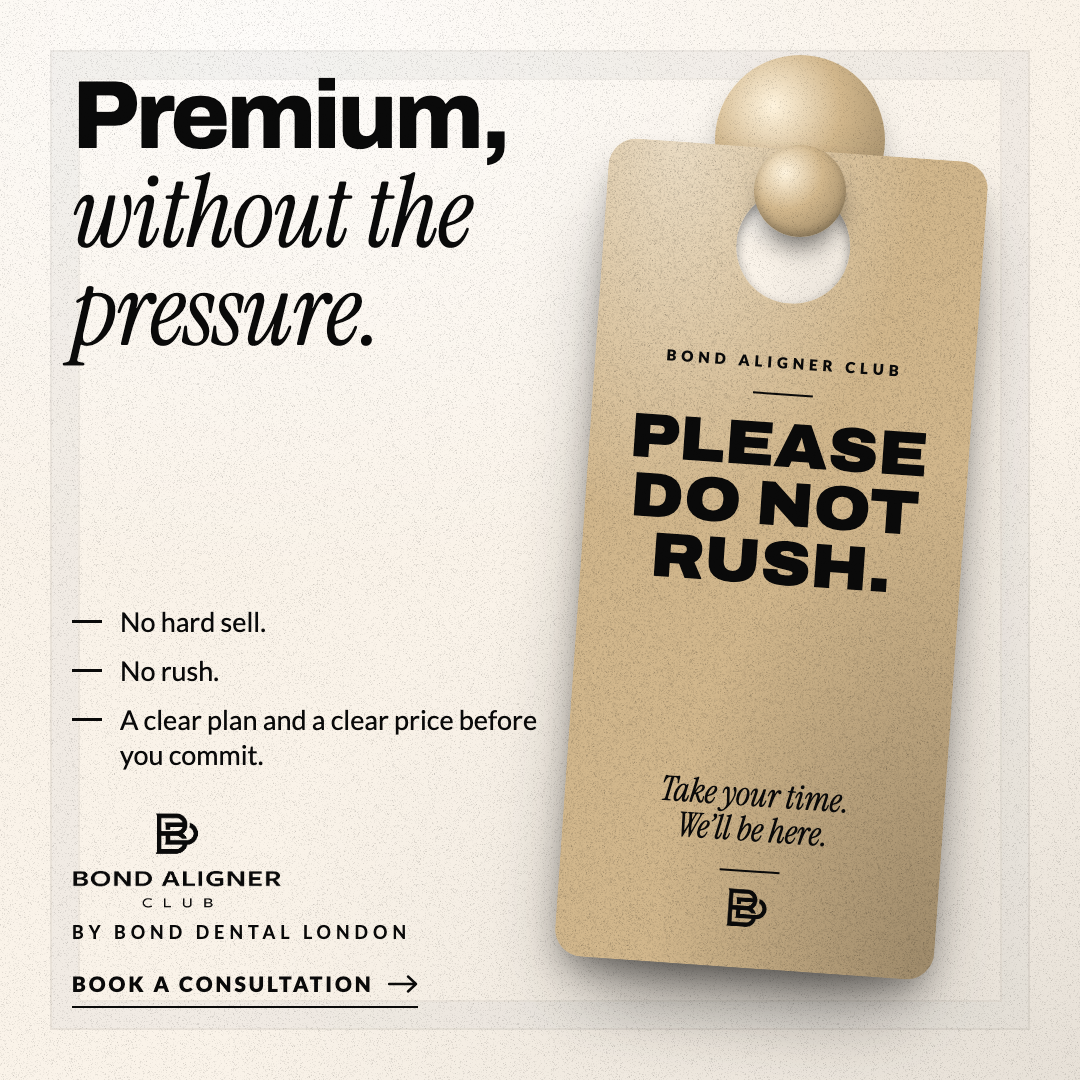
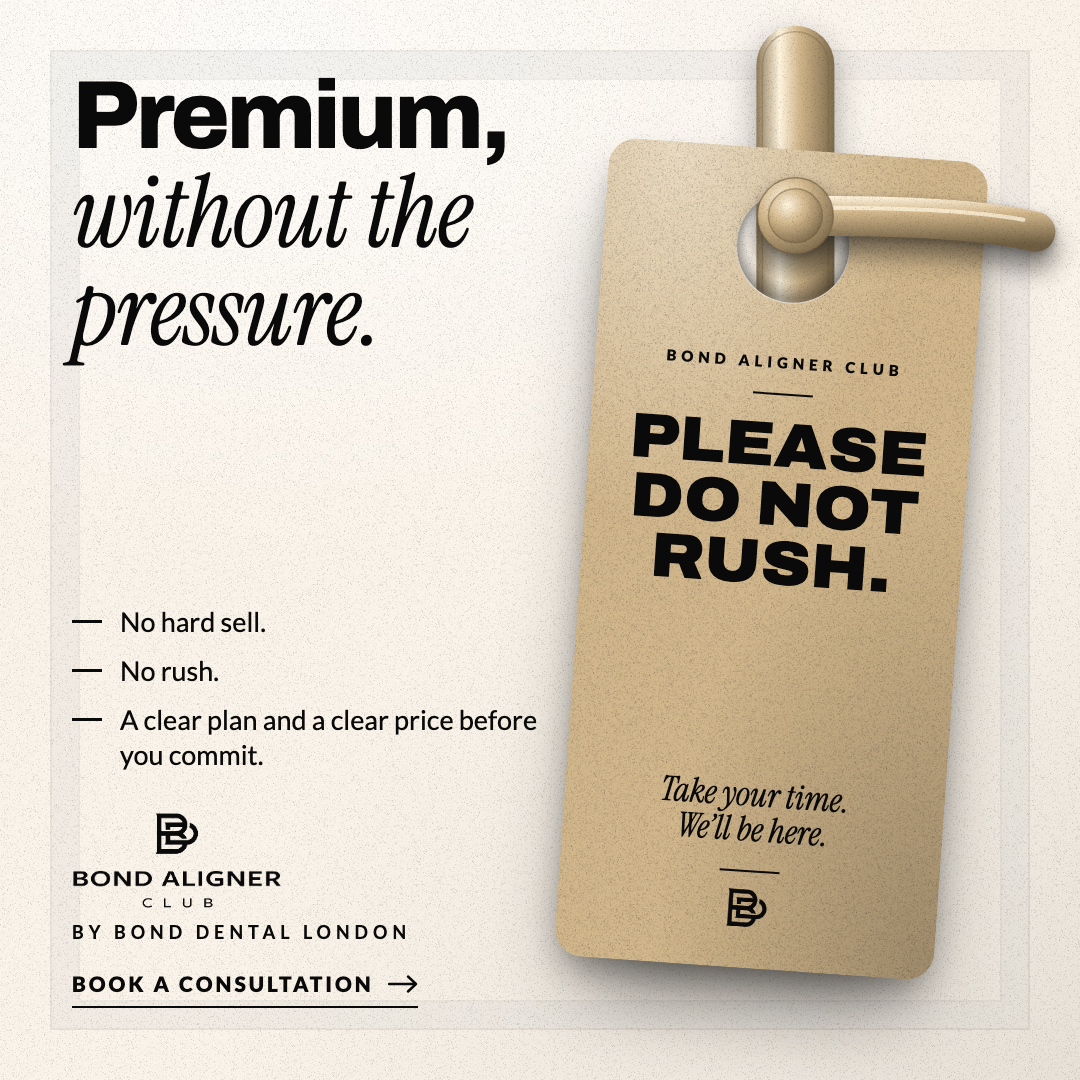
fix(creative): BAC-14 door knob replaced with brass lever handle on backplate

Changed region(s): [[0.6417, 0.0, 1.0, 0.3056]]

diff --git a/outputs/creative/bond-aligner-club-meta-statics/v2/sec_c.py b/outputs/creative/bond-aligner-club-meta-statics/v2/sec_c.py
@@ -100,11 +100,42 @@ def bac14(f, w, h):
     hole = int(hw * 0.3)
     right = v(f, 90, 100, 0)
     left_story = (w - hw) // 2
-    top = v(f, 150, 170, 560)
+    top = v(f, 150, 170, 620)
     pos = f'right: {right}px;' if f != '9x16' else f'left: {left_story}px;'
-    knob_cx_off = hw // 2
-    rose = (f'<div style="position: absolute; {pos} top: {top - 95}px; width: {hw}px; height: 190px; display: flex; justify-content: center; pointer-events: none;">'
-            f'<div style="width: 170px; height: 170px; border-radius: 50%; background: {BRASS}; box-shadow: 0 16px 30px -10px rgba(10,10,10,0.5);"></div></div>')
+    # Lever door handle: the hanger hangs from the neck; rose shows through the hole, lever sits in front.
+    import math as _m
+    hl = (w - right - hw) if f != '9x16' else left_story
+    ny = 40 + 26
+    ncx = hl + hw / 2 - _m.sin(_m.radians(4)) * ny
+    ncy = top + _m.cos(_m.radians(4)) * ny
+    L = v(f, 240, 260, 290)
+    rr = int(hole * 0.6)
+    grad = ('<defs><radialGradient id="br{f}" cx="35%" cy="30%" r="75%"><stop offset="0" stop-color="#FFF4DE"/><stop offset="0.45" stop-color="#D2B78C"/>'
+            '<stop offset="1" stop-color="#7E6B4C"/></radialGradient>'
+            '<linearGradient id="lv{f}" gradientUnits="userSpaceOnUse" x1="0" y1="{a}" x2="0" y2="{b}"><stop offset="0" stop-color="#FFF4DE"/>'
+            '<stop offset="0.35" stop-color="#D2B78C"/><stop offset="1" stop-color="#6F5E42"/></linearGradient></defs>').format(f=f, a=ncy - 20, b=ncy + 28)
+    svgopen = f'<svg width="{w}" height="{h}" viewBox="0 0 {w} {h}" aria-hidden="true" style="position: absolute; left: 0; top: 0; pointer-events: none; overflow: visible;'
+    hy = 40 + hole / 2
+    hcx = hl + hw / 2 - _m.sin(_m.radians(4)) * hy
+    hcy = top + _m.cos(_m.radians(4)) * hy
+    pw_, pt, pb = 78, ncy - v(f, 190, 190, 130), ncy + 300
+    plate_grad = (f'<linearGradient id="pl{f}" x1="0" y1="0" x2="1" y2="0"><stop offset="0" stop-color="#8F7B5A"/><stop offset="0.3" stop-color="#FFF4DE"/>'
+                  f'<stop offset="0.55" stop-color="#D2B78C"/><stop offset="1" stop-color="#7E6B4C"/></linearGradient>')
+    plate = lambda gid: (f'<rect x="{ncx - pw_ / 2:.1f}" y="{pt:.1f}" width="{pw_}" height="{pb - pt:.1f}" rx="{pw_ / 2}" fill="url(#{gid})"/>'
+                         f'<rect x="{ncx - pw_ / 2 + 6:.1f}" y="{pt + 6:.1f}" width="{pw_ - 12}" height="{pb - pt - 12:.1f}" rx="{pw_ / 2 - 6}" fill="none" stroke="#6F5E42" stroke-opacity="0.35" stroke-width="1.5"/>')
+    rose = (svgopen + ' filter: drop-shadow(0 12px 16px rgba(10,10,10,0.35));">' + f'<defs>{plate_grad}</defs>' + plate(f'pl{f}') + '</svg>')
+    lever_d = f'M {ncx:.1f} {ncy:.1f} C {ncx + L * 0.45:.1f} {ncy:.1f}, {ncx + L * 0.78:.1f} {ncy + 3:.1f}, {ncx + L:.1f} {ncy + 16:.1f}'
+    hi_d = f'M {ncx + 30:.1f} {ncy - 8:.1f} C {ncx + L * 0.45:.1f} {ncy - 8:.1f}, {ncx + L * 0.75:.1f} {ncy - 5:.1f}, {ncx + L - 12:.1f} {ncy + 4:.1f}'
+    through = (svgopen + '">' + f'<defs><linearGradient id="pm{f}" x1="0" y1="0" x2="1" y2="0"><stop offset="0" stop-color="#8F7B5A"/><stop offset="0.3" stop-color="#FFF4DE"/>'
+               f'<stop offset="0.55" stop-color="#D2B78C"/><stop offset="1" stop-color="#7E6B4C"/></linearGradient>'
+               f'<clipPath id="hc{f}"><circle cx="{hcx:.1f}" cy="{hcy:.1f}" r="{hole / 2 - 1:.1f}"/></clipPath>'
+               f'<radialGradient id="hs{f}" cx="50%" cy="40%" r="55%"><stop offset="0.75" stop-color="#0A0A0A" stop-opacity="0"/><stop offset="1" stop-color="#0A0A0A" stop-opacity="0.35"/></radialGradient></defs>'
+               f'<g clip-path="url(#hc{f})">' + plate(f'pm{f}') + f'<circle cx="{hcx:.1f}" cy="{hcy:.1f}" r="{hole / 2:.1f}" fill="url(#hs{f})"/></g></svg>')
+    knob = through + (svgopen + ' filter: drop-shadow(0 16px 12px rgba(10,10,10,0.45)) drop-shadow(0 3px 3px rgba(10,10,10,0.3));">' + grad.replace('br' + f, 'bq' + f).replace('lv' + f, 'lw' + f)
+            + f'<path d="{lever_d}" stroke="url(#lw{f})" stroke-width="40" stroke-linecap="round" fill="none"/>'
+            + f'<path d="{hi_d}" stroke="#FFF4DE" stroke-opacity="0.75" stroke-width="4" stroke-linecap="round" fill="none"/>'
+            + f'<circle cx="{ncx:.1f}" cy="{ncy:.1f}" r="38" fill="url(#bq{f})"/><circle cx="{ncx:.1f}" cy="{ncy:.1f}" r="27" fill="url(#bq{f})" stroke="#6F5E42" stroke-opacity="0.5" stroke-width="1.5"/>'
+            + f'<circle cx="{ncx:.1f}" cy="{ncy:.1f}" r="38" fill="none" stroke="#6F5E42" stroke-opacity="0.6" stroke-width="1.5"/></svg>')
     hanger = (f'<div style="position: absolute; {pos} top: {top}px; width: {hw}px; height: {hh}px; transform: rotate(4deg); transform-origin: 50% 0; '
               f'background: {BG_GOLD}; border-radius: 28px; box-shadow: {SHADOW_DEEP}; overflow: hidden; display: flex; flex-direction: column; align-items: center; '
               f'padding: {hole + 90}px 34px 40px; box-sizing: border-box; text-align: center; color: {BLACK};">'
@@ -118,8 +149,6 @@ def bac14(f, w, h):
               f'<div style="position: relative; {SERIF} font-size: {v(f, 34, 38, 42)}px; line-height: 1.05;">Take your time.<br>We’ll be here.</div>'
               f'<div style="position: relative; width: 60px; height: 2px; background: {BLACK}; margin: 22px 0 16px;"></div>'
               f'<img src="{B["mark_black"]}" alt="" style="position: relative; height: 40px; width: auto; display: block;"></div>')
-    knob = (f'<div style="position: absolute; {pos} top: {top - 5}px; width: {hw}px; display: flex; justify-content: center; pointer-events: none;">'
-            f'<div style="width: 92px; height: 92px; border-radius: 50%; background: {BRASS}; box-shadow: 0 18px 26px -8px rgba(10,10,10,0.6), inset 0 -4px 8px rgba(10,10,10,0.25);"></div></div>')
     panels = (f'<div style="position: absolute; left: 50px; top: 50px; right: 50px; bottom: 50px; border: 2px solid rgba(10,10,10,0.07); '
               f'box-shadow: inset 0 0 0 26px rgba(255,255,255,0.18), inset 0 0 0 28px rgba(10,10,10,0.05);"></div>')
     lines = ['No hard sell.', 'No rush.', 'A clear plan and a clear price before you commit.']
